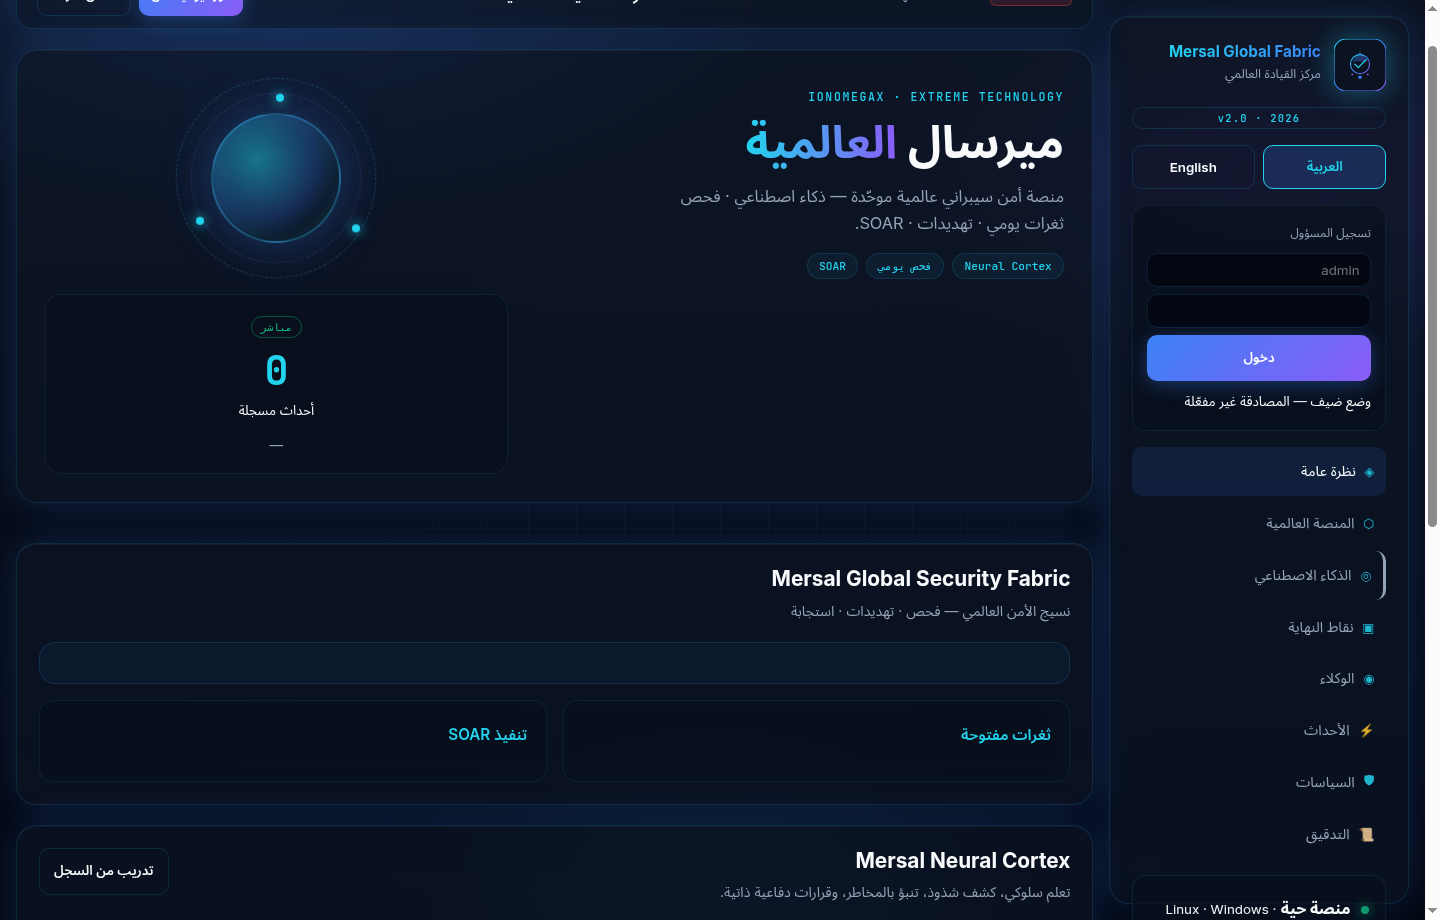
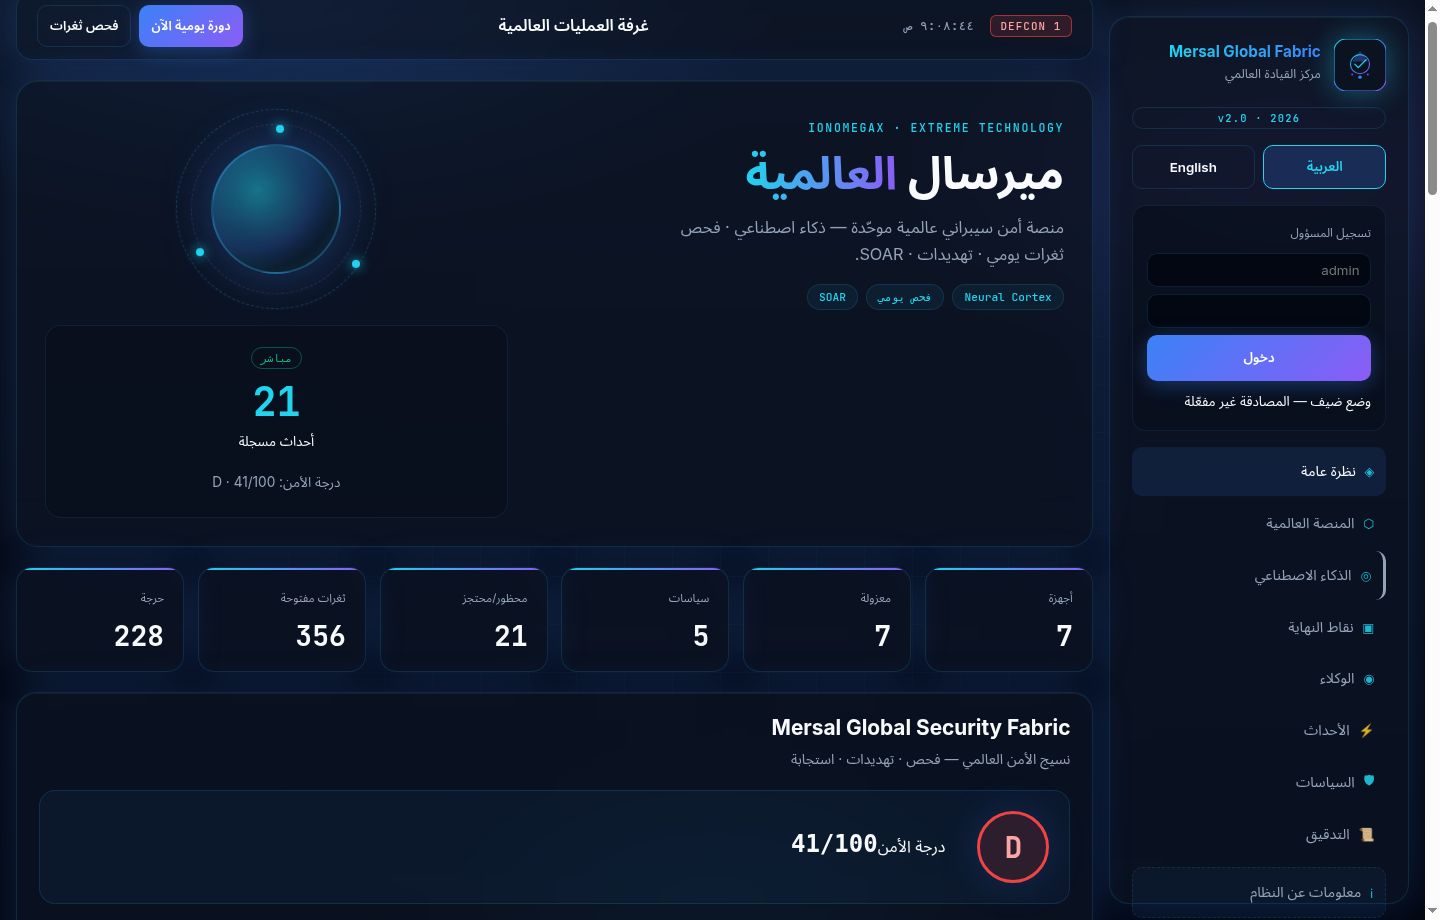
docs(screenshots): refresh v2.0.2 UI captures incl. About System dialog

diff --git a/xtreme-ip-guard/web/app.js b/xtreme-ip-guard/web/app.js
@@ -601,12 +601,14 @@ function initFromUrl() {
   const params = new URLSearchParams(window.location.search);
   const view = params.get("view");
   const urlLang = params.get("lang");
+  const openAbout = params.get("openAbout");
   if (urlLang === "en" || urlLang === "ar") lang = urlLang;
   loadAuthStatus().then(() => {
     loadAbout();
     applyLanguage(lang);
     startClock();
     if (view) setTimeout(() => scrollToView(view), 600);
+    if (openAbout === "1") setTimeout(() => openAboutDialog(), 900);
   });
 }
 

diff --git a/xtreme-ip-guard/scripts/capture_screenshots_standalone.py b/xtreme-ip-guard/scripts/capture_screenshots_standalone.py
@@ -1,0 +1,85 @@
+#!/usr/bin/env python3
+"""Start server, capture screenshots, exit — self-contained."""
+
+from __future__ import annotations
+
+import os
+import subprocess
+import sys
+import time
+import urllib.request
+from pathlib import Path
+from threading import Thread
+
+ROOT = Path(__file__).resolve().parents[1]
+sys.path.insert(0, str(ROOT))
+os.environ.setdefault("MERSAL_DB", str(ROOT / "data" / "demo-ui.sqlite3"))
+os.environ["MERSAL_DAILY_INTERVAL_SECONDS"] = "999999999"
+
+OUT = ROOT / "docs" / "screenshots"
+PORT = 8090
+BASE = f"http://127.0.0.1:{PORT}"
+
+
+def wait_server(timeout: float = 20.0) -> None:
+    deadline = time.time() + timeout
+    while time.time() < deadline:
+        try:
+            with urllib.request.urlopen(f"{BASE}/api/system/about", timeout=2) as resp:
+                if resp.status == 200:
+                    return
+        except OSError:
+            time.sleep(0.4)
+    raise RuntimeError("server did not start")
+
+
+def shot(name: str, query: str) -> None:
+    OUT.mkdir(parents=True, exist_ok=True)
+    target = f"{BASE}/console/{query}"
+    dest = OUT / name
+    profile = f"/tmp/mersal-chrome-{os.getpid()}-{name}"
+    cmd = [
+        os.environ.get("CHROME_BIN", "google-chrome"),
+        "--headless=new",
+        "--disable-gpu",
+        "--no-sandbox",
+        f"--user-data-dir={profile}",
+        "--window-size=1440,920",
+        "--virtual-time-budget=8000",
+        f"--screenshot={dest}",
+        target,
+    ]
+    try:
+        subprocess.run(cmd, check=False, timeout=45)
+    except subprocess.TimeoutExpired:
+        subprocess.run(["pkill", "-f", f"user-data-dir={profile}"], check=False)
+    if dest.is_file() and dest.stat().st_size > 1000:
+        print(f"  OK {name} ({dest.stat().st_size} bytes)")
+    else:
+        print(f"  FAIL {name}")
+
+
+def main() -> None:
+    subprocess.run([sys.executable, str(ROOT / "scripts" / "seed_demo_ui.py")], check=True, cwd=ROOT)
+    from xig.server import run
+
+    thread = Thread(target=run, kwargs={"host": "127.0.0.1", "port": PORT}, daemon=True)
+    thread.start()
+    wait_server()
+    time.sleep(1.5)
+
+    shots = [
+        ("01-command-center-overview-ar.png", "?lang=ar&view=overview"),
+        ("02-global-fabric-ar.png", "?lang=ar&view=fabric"),
+        ("03-neural-cortex-ar.png", "?lang=ar&view=ai"),
+        ("04-command-center-en.png", "?lang=en&view=overview"),
+        ("05-endpoints-threats-ar.png", "?lang=ar&view=events"),
+        ("06-about-system-ar.png", "?lang=ar&openAbout=1"),
+    ]
+    for name, query in shots:
+        shot(name, query)
+    print(f"Done → {OUT}")
+
+
+if __name__ == "__main__":
+    main()

diff --git a/xtreme-ip-guard/docs/RELEASE_v2.0.2_screenshots.md b/xtreme-ip-guard/docs/RELEASE_v2.0.2_screenshots.md
@@ -1,0 +1,20 @@
+# Mersal v2.0.2 — لقطات محدّثة | Updated Screenshots
+
+**Ionomegax Mersal Global Security Fabric** · **Extreme Technology**
+
+Designed and developed by **Eng. Mahmoud Rasem Bayari** — Ramallah, Palestine.  
+All rights reserved © 2009–2026
+
+## Screenshots
+
+![Overview AR](https://raw.githubusercontent.com/developer8181/ionomegax-mersal-ios/cursor/mersal-ai-security-brain-eef7/xtreme-ip-guard/docs/screenshots/01-command-center-overview-ar.png)
+
+![Global Fabric](https://raw.githubusercontent.com/developer8181/ionomegax-mersal-ios/cursor/mersal-ai-security-brain-eef7/xtreme-ip-guard/docs/screenshots/02-global-fabric-ar.png)
+
+![Neural Cortex](https://raw.githubusercontent.com/developer8181/ionomegax-mersal-ios/cursor/mersal-ai-security-brain-eef7/xtreme-ip-guard/docs/screenshots/03-neural-cortex-ar.png)
+
+![English UI](https://raw.githubusercontent.com/developer8181/ionomegax-mersal-ios/cursor/mersal-ai-security-brain-eef7/xtreme-ip-guard/docs/screenshots/04-command-center-en.png)
+
+![Events](https://raw.githubusercontent.com/developer8181/ionomegax-mersal-ios/cursor/mersal-ai-security-brain-eef7/xtreme-ip-guard/docs/screenshots/05-endpoints-threats-ar.png)
+
+![About System](https://raw.githubusercontent.com/developer8181/ionomegax-mersal-ios/cursor/mersal-ai-security-brain-eef7/xtreme-ip-guard/docs/screenshots/06-about-system-ar.png)

diff --git a/xtreme-ip-guard/docs/screenshots/README_AR.md b/xtreme-ip-guard/docs/screenshots/README_AR.md
@@ -9,6 +9,7 @@
 | `03-neural-cortex-ar.png` | الذكاء الاصطناعي |
 | `04-command-center-en.png` | English UI |
 | `05-endpoints-threats-ar.png` | الأحداث والتهديدات |
+| `06-about-system-ar.png` | معلومات عن النظام — حقوق النشر |
 
 ```bash
 ./scripts/capture-screenshots.sh
